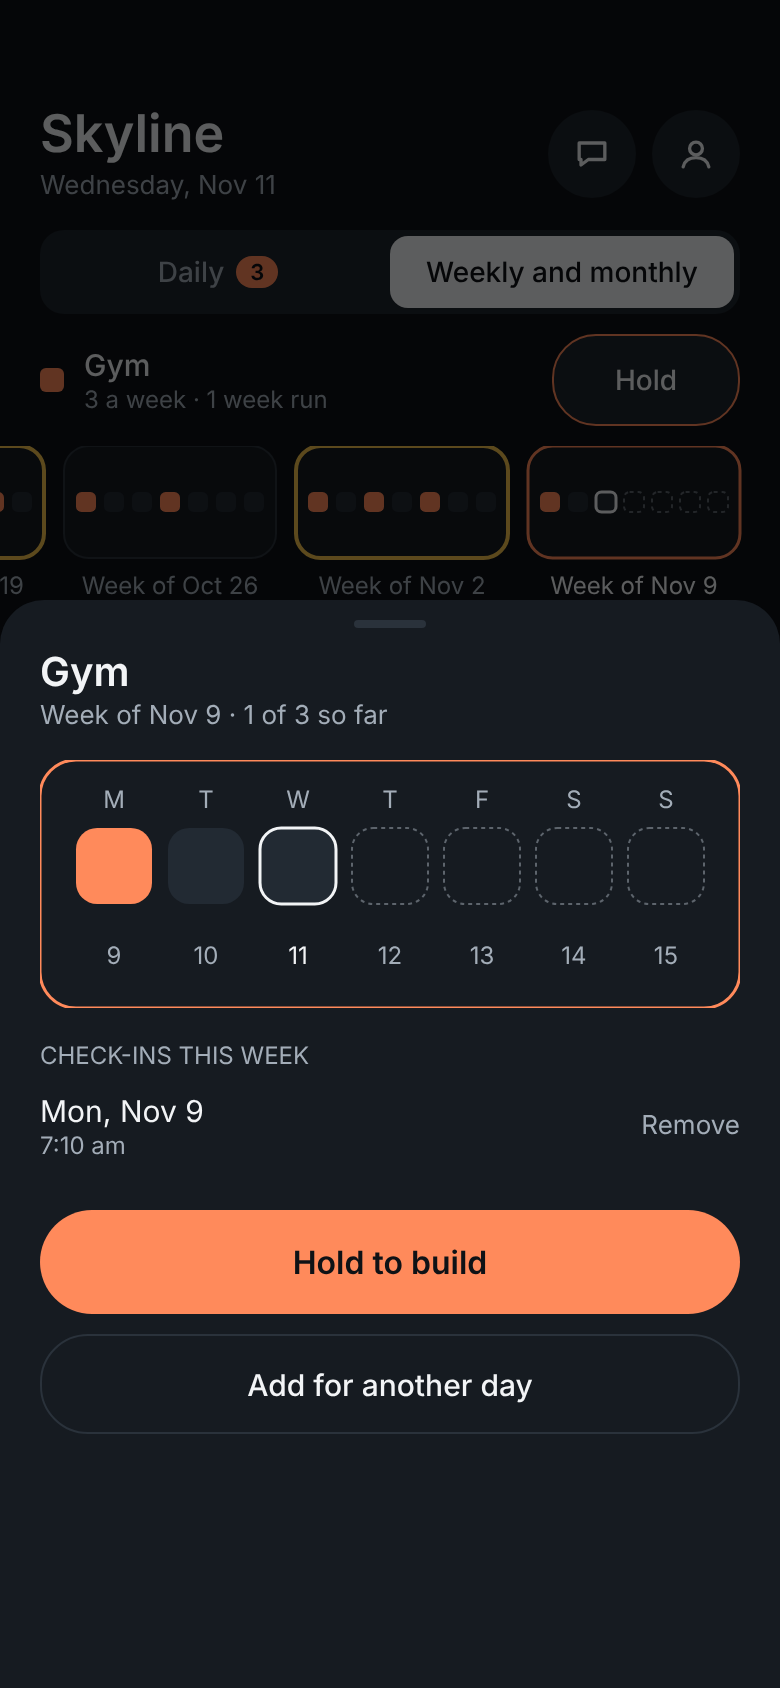
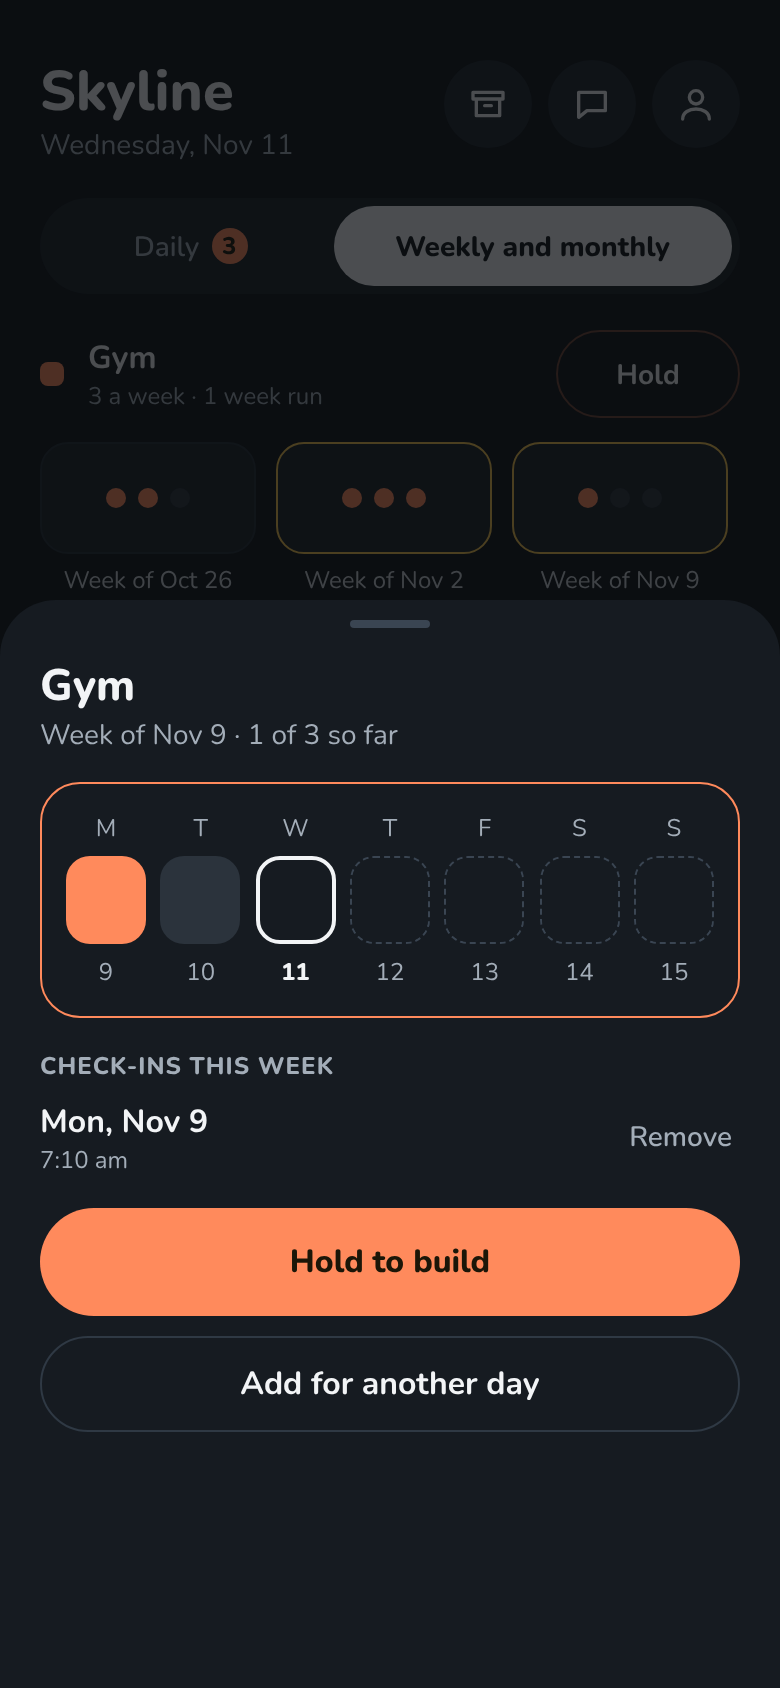
Redraw boards 01 and 16-21 in Nunito to the design system
Claude-Session: https://claude.ai/code/session_01UvWD32uMFJU1E2B9jDYiLg

diff --git a/design/skyline/source/rd.js b/design/skyline/source/rd.js
@@ -1,0 +1,67 @@
+// Redraws of owner-supplied boards 01, 16-21 in Nunito to the design system
+(function(){
+const Q=new URLSearchParams(location.search);const S=Q.get('s');
+if(!/^rd-/.test(S||''))return;
+const R=document.getElementById('root');
+const CO='#FF8A5C',AM='#F2C14E',MU='#A3ADB8';
+const svg=(p,s=20,c='#F2F4F6')=>`<svg width="${s}" height="${s}" viewBox="0 0 24 24" fill="none" stroke="${c}" stroke-width="2" stroke-linecap="round" stroke-linejoin="round">${p}</svg>`;
+const I={arch:'<path d="M3 5h18v4H3zM5 9v10h14V9M10 13h4"/>',chat:'<path d="M4 5h16v11H9l-5 4Z"/>',user:'<circle cx="12" cy="8" r="4"/><path d="M4 21c0-4 4-6 8-6s8 2 8 6"/>',chk:'<path d="M5 12l5 5L19 7"/>'};
+const circ=p=>`<div style="width:44px;height:44px;border-radius:22px;background:#1E252D;display:flex;align-items:center;justify-content:center">${svg(p)}</div>`;
+const tabIc={Skyline:'<path d="M4 20V10h5v10M9 20V4h6v16M15 20v-7h5v7"/>',Insights:'<path d="M6 20V11M12 20V5M18 20v-7"/>',Community:'<circle cx="9" cy="8" r="3"/><circle cx="17" cy="9" r="2.5"/><path d="M3 20c0-3 3-5 6-5s6 2 6 5M15 15c3 0 6 1.5 6 5"/>',Profile:'<circle cx="12" cy="8" r="4"/><path d="M4 21c0-4 4-6 8-6s8 2 8 6"/>'};
+const tabs=`<div style="position:absolute;left:0;right:0;bottom:0;height:76px;border-top:1px solid #222a33;background:#0F1216;display:flex">${['Skyline','Insights','Community','Profile'].map((t,i)=>`<div style="flex:1;display:flex;flex-direction:column;align-items:center;justify-content:center;gap:4px;font-size:12px;font-weight:${i?600:800};color:${i?MU:AM}">${svg(tabIc[t],22,i?MU:AM)}${t}</div>`).join('')}</div>`;
+const head=(sub)=>`<div style="padding:30px 20px 0;display:flex;justify-content:space-between;align-items:flex-start"><div><h1 style="font-size:28px;line-height:1.15">Skyline</h1><div style="color:${MU};font-size:14px;line-height:1.35;margin-top:2px">${sub}</div></div><div style="display:flex;gap:8px">${circ(I.arch)}${circ(I.chat)}${circ(I.user)}</div></div>`;
+const seg=(on,n1,n2)=>`<div style="margin:16px 20px 0;height:48px;border-radius:24px;background:#1A2027;padding:4px;display:flex"><div style="flex:1;border-radius:20px;display:flex;align-items:center;justify-content:center;gap:6px;font-size:14px;font-weight:${on===0?800:600};${on===0?'background:#F2F4F6;color:#0F1216':'color:'+MU}">Daily${n1?`<b style="background:${CO};color:#1b1608;border-radius:9px;min-width:18px;height:18px;font-size:12px;display:inline-flex;align-items:center;justify-content:center">${n1}</b>`:''}</div><div style="flex:1.4;border-radius:20px;display:flex;align-items:center;justify-content:center;gap:6px;font-size:14px;font-weight:${on===1?800:600};${on===1?'background:#F2F4F6;color:#0F1216':'color:'+MU}">Weekly and monthly${n2?`<b style="background:${CO};color:#1b1608;border-radius:9px;min-width:18px;height:18px;font-size:12px;display:inline-flex;align-items:center;justify-content:center">${n2}</b>`:''}</div></div>`;
+const hold=(t='Hold',kind='out')=>`<div style="height:44px;min-width:92px;padding:0 18px;border-radius:22px;display:flex;align-items:center;justify-content:center;font-size:14px;font-weight:700;${kind==='built'?'background:#1E252D;color:'+MU:'border:1.5px solid '+CO+'66'}">${kind==='built'?svg(I.chk,16,MU)+'&nbsp;':''}${t}</div>`;
+const sw=c=>`<i style="width:12px;height:12px;border-radius:4px;background:${c};display:inline-block"></i>`;
+const tw=(col,o)=>{const old=C.front;C.front=col;const r=tower(o);C.front=old;return r};
+const fl=(n,lit,sh=-1)=>Array.from({length:n},(_,i)=>i===sh?'shield':(i>=n-lit?'lit':'dark'));
+const star=(h)=>{let o='';for(let i=0;i<50;i++)o+=`<circle cx="${(i*97)%390}" cy="${(i*53)%h+4}" r="${i%3?0.9:1.4}" fill="#dfe6ff" opacity="${0.35+(i%4)*0.15}"/>`;return o};
+// ---- 01
+if(S==='rd-01'){
+  const T=[['Read',28,'#14B8A6',20,13],['Run',106,'#FF8A5C',17,9],['Write',184,'#F2C14E',9,4],['Sleep',262,'#A78BFA',20,8]];
+  R.innerHTML=`<div style="position:absolute;inset:0;overflow:hidden">${head('Wednesday, Nov 11<br>1 of 4 built today')}${seg(0,0,2)}
+  <svg width="390" height="330" style="position:absolute;top:172px;left:0"><defs><linearGradient id="g1" x1="0" y1="0" x2="0" y2="1"><stop offset="0" stop-color="#0B1030"/><stop offset="1" stop-color="#232a5a"/></linearGradient></defs><rect width="390" height="330" fill="url(#g1)"/>${star(250)}<circle cx="330" cy="26" r="16" fill="#F4EFD8"/><circle cx="337" cy="21" r="14" fill="#171E45"/><rect y="296" width="390" height="34" fill="#111522"/>
+  ${T.map(([n,x,c,f,l])=>tw(c,{x,base:290,w:44,fh:7,dx:13,dy:8,floors:fl(f,l),windows:2,today:true})+`<text x="${x+30}" y="318" text-anchor="middle" font-size="12" font-weight="700" fill="#F2F4F6" font-family="Nunito">${n}</text>`).join('')}
+  <rect x="336" y="262" width="44" height="22" rx="4" fill="none" stroke="#7A86A8" stroke-width="1.6" stroke-dasharray="5 4"/><text x="358" y="256" text-anchor="middle" font-size="22" font-weight="600" fill="#fff" font-family="Nunito">+</text><text x="358" y="318" text-anchor="middle" font-size="12" font-weight="700" fill="#F2F4F6" font-family="Nunito">New</text></svg>
+  <div style="position:absolute;top:490px;left:0;right:0;bottom:76px;background:#161B21;border-radius:28px 28px 0 0;padding:10px 20px 0"><div style="width:40px;height:4px;border-radius:2px;background:#3A4552;margin:0 auto 10px"></div>
+  ${[['Read 10 minutes','#38BDF8','27 day run','built'],['Run','#FF8A5C','8 day run'],['Write','#F2C14E','4 day run'],['Sleep by 11','#A78BFA','7 day run']].map(([n,c,r,k],i)=>`<div style="display:flex;align-items:center;gap:12px;min-height:64px;${i?'border-top:1px solid #222a33':''}">${sw(c)}<div style="flex:1"><div style="font-size:16px;font-weight:700">${n}</div><div style="font-size:12px;color:${MU}">${r}</div></div>${hold(k==='built'?'Built':'Hold',k==='built'?'built':'out')}</div>`).join('')}</div>${tabs}</div>`;
+}
+// ---- 16 base
+const gym=()=>{const wk=[['Oct 26','2 of 3',2,0],['Nov 2','3 of 3',3,1],['Nov 9','1 of 3 now',1,2]];
+ const card=(l,s,n,sel,w=108)=>`<div style="flex:0 0 ${w}px"><div style="height:56px;border-radius:14px;background:#1A2027;border:${sel?'1.5px solid '+AM:'1px solid #232b34'};display:flex;align-items:center;justify-content:center;gap:6px">${[0,1,2].map(i=>`<i style="width:10px;height:10px;border-radius:5px;background:${i<n?CO:'#2B333C'};display:block"></i>`).join('')}</div><div style="font-size:12px;color:#C9CED4;text-align:center;margin-top:6px;line-height:1.3">Week of ${l}<br><span style="color:${MU}">${s}</span></div></div>`;
+ return `<div style="padding:18px 20px 0"><div style="display:flex;align-items:center;gap:12px">${sw(CO)}<div style="flex:1"><div style="font-size:16px;font-weight:700">Gym</div><div style="font-size:12px;color:${MU}">3 a week · 1 week run</div></div>${hold('Hold')}</div>
+ <div style="display:flex;gap:10px;margin-top:12px;overflow:hidden;margin-left:-20px;padding-left:20px;margin-right:-20px">${wk.map((w,i)=>card(w[0],w[1],w[2],w[3]>0,108)).join('')}</div><div style="color:${CO};font-size:13px;font-weight:700;margin-top:10px">Add for another day ›</div></div>`};
+const run=()=>{const mo=[['September','5 of 8',5,0],['October','9 of 8',9,1],['November','3 of 8 now',3,1]];
+ const grid=(n)=>`<div style="display:grid;grid-template-columns:repeat(7,10px);gap:4px;justify-content:center">${Array.from({length:30},(_,i)=>`<i style="width:10px;height:10px;border-radius:3px;display:block;background:${i%4===0&&i<n*3?CO:'#2B333C'}"></i>`).join('')}</div>`;
+ return `<div style="padding:18px 20px 0"><div style="display:flex;align-items:center;gap:12px">${sw(CO)}<div style="flex:1"><div style="font-size:16px;font-weight:700">Run 5 km</div><div style="font-size:12px;color:${MU}">8 a month · 1 month run</div></div>${hold('Hold')}</div>
+ <div style="display:flex;gap:10px;margin-top:12px">${mo.map(m=>`<div style="flex:1"><div style="height:94px;border-radius:14px;background:#1A2027;border:${m[3]?'1.5px solid '+AM:'1px solid #232b34'};padding:10px 0">${grid(m[2])}</div><div style="font-size:12px;color:#C9CED4;text-align:center;margin-top:6px;line-height:1.3">${m[0]}<br><span style="color:${MU}">${m[1]}</span></div></div>`).join('')}</div><div style="color:${CO};font-size:13px;font-weight:700;margin-top:10px">Add for another day ›</div></div>`};
+const legend=`<div style="margin:14px 20px 0;background:#161B21;border-radius:20px;padding:14px 16px"><div style="font-size:13px;color:#C9CED4">Each small square is one day</div><div style="display:flex;gap:12px;margin-top:8px;font-size:12px;color:${MU};flex-wrap:wrap"><span>${sw('#2B333C')} None</span><span>${sw('#FFD9C9')} 1</span><span>${sw(CO)} 2</span><span>${sw('#C85A2E')} 3 or more</span></div><div style="display:flex;gap:12px;margin-top:8px;font-size:12px;color:${MU}"><span><i style="width:12px;height:12px;border-radius:4px;border:1.5px solid ${AM};display:inline-block"></i> Target met</span><span><i style="width:12px;height:12px;border-radius:4px;border:1.5px dashed #5B6472;display:inline-block"></i> To come</span></div></div>`;
+const base16=()=>`${head('Wednesday, Nov 11')}${seg(1,3,0)}${gym()}<div style="height:1px;background:#222a33;margin:14px 20px 0"></div>${run()}${legend}${tabs}`;
+if(S==='rd-16')R.innerHTML=`<div style="position:absolute;inset:0;overflow:hidden">${base16()}</div>`;
+const dim=()=>`<div style="position:absolute;inset:0;background:rgba(10,12,15,.72)"></div>`;
+const sheetBox=(top,inner)=>`<div style="position:absolute;top:${top}px;left:0;right:0;bottom:0;background:#161B21;border-radius:28px 28px 0 0;padding:10px 20px 0"><div style="width:40px;height:4px;border-radius:2px;background:#3A4552;margin:0 auto 14px"></div>${inner}</div>`;
+const pri=(t)=>`<div style="height:54px;border-radius:27px;background:${CO};color:#1b1608;font-size:16px;font-weight:800;display:flex;align-items:center;justify-content:center">${t}</div>`;
+const sec=(t)=>`<div style="height:48px;border-radius:24px;border:1.5px solid #2F3944;font-size:16px;font-weight:700;display:flex;align-items:center;justify-content:center;margin-top:10px">${t}</div>`;
+if(S==='rd-17'){const days=['M','T','W','T','F','S','S'];
+ R.innerHTML=`<div style="position:absolute;inset:0;overflow:hidden">${base16()}${dim()}${sheetBox(300,`<div style="font-size:22px;font-weight:800">Gym</div><div style="font-size:14px;color:${MU}">Week of Nov 9 · 1 of 3 so far</div>
+ <div style="border:1.5px solid ${CO};border-radius:20px;padding:14px 12px;margin-top:14px"><div style="display:flex;justify-content:space-between">${days.map((d,i)=>`<div style="width:40px;text-align:center"><div style="font-size:12px;color:${MU}">${d}</div><div style="width:40px;height:44px;border-radius:12px;margin-top:6px;background:${i===0?CO:i===1?'#2B333C':'transparent'};border:${i===2?'2px solid #F2F4F6':i>2?'1.5px dashed #3A4552':'none'}"></div><div style="font-size:12px;color:${i===2?'#F2F4F6':MU};margin-top:6px;font-weight:${i===2?800:400}">${9+i}</div></div>`).join('')}</div></div>
+ <div style="font-size:12px;font-weight:800;letter-spacing:.5px;color:${MU};margin-top:16px">CHECK-INS THIS WEEK</div><div style="display:flex;align-items:center;margin-top:6px"><div style="flex:1"><div style="font-size:16px;font-weight:700">Mon, Nov 9</div><div style="font-size:12px;color:${MU}">7:10 am</div></div><div style="font-size:14px;color:${MU};font-weight:600;padding:12px 4px">Remove</div></div>
+ <div style="margin-top:14px">${pri('Hold to build')}${sec('Add for another day')}</div>`)}</div>`;}
+if(S==='rd-18'){const rows=[['THIS WEEK'],['Wed, Nov 11','Today','o'],['Tue, Nov 10','Counts toward this week','f'],['Mon, Nov 9','Counts toward this week','b'],['LAST WEEK'],['Sun, Nov 8','Counts toward last week','o'],['Sat, Nov 7','Counts toward last week','o'],['Fri, Nov 6','Counts toward last week','b']];
+ R.innerHTML=`<div style="position:absolute;inset:0;overflow:hidden">${base16()}${dim()}${sheetBox(100,`<div style="font-size:22px;font-weight:800">Add for another day</div><div style="font-size:14px;color:${MU}">Gym · last 7 days</div><div style="margin-top:12px">${rows.map(r=>r.length===1?`<div style="font-size:12px;font-weight:800;letter-spacing:.5px;color:${MU};padding:10px 0 4px">${r[0]}</div>`:`<div style="display:flex;align-items:center;min-height:64px;border-bottom:1px solid #222a33;${r[2]==='b'?'opacity:.55':''}"><div style="flex:1"><div style="font-size:16px;font-weight:700">${r[0]}</div><div style="font-size:12px;color:${MU}">${r[1]}</div></div>${r[2]==='b'?`<span style="font-size:14px;color:${MU}">Built</span>`:`<i style="width:28px;height:28px;border-radius:14px;display:block;${r[2]==='f'?'background:'+CO:'border:1.5px solid #4a5560'}"></i>`}</div>`).join('')}</div><div style="margin-top:16px">${pri('Add check-in')}<div style="text-align:center;font-size:12px;color:${MU};margin-top:8px">One check-in per day</div></div>`)}</div>`;}
+if(S==='rd-19'){const rows=['1 to 7','8 to 14','15 to 21','22 to 28','29 to 30'];const on={0:[0,3],1:[2]};
+ R.innerHTML=`<div style="position:absolute;inset:0;overflow:hidden">${base16()}${dim()}${sheetBox(210,`<div style="font-size:22px;font-weight:800">Run 5 km</div><div style="font-size:14px;color:${MU}">November · 3 of 8, 5 to go</div>
+ <div style="border:1.5px solid ${CO};border-radius:20px;padding:12px;margin-top:14px">${rows.map((r,ri)=>`<div style="display:flex;align-items:center;gap:8px;height:44px"><div style="width:56px;flex:0 0 56px;white-space:nowrap;font-size:12px;color:${MU}">${r}</div>${Array.from({length:ri===4?2:7},(_,i)=>`<div style="width:34px;height:34px;border-radius:10px;display:flex;align-items:center;justify-content:center;font-size:14px;font-weight:800;color:#1b1608;${(on[ri]||[]).includes(i)?'background:#FFD9C9':ri===1&&i===3?'border:2px solid #F2F4F6':ri<2&&i<=(ri?2:6)?'background:#2B333C':'border:1.5px dashed #3A4552'}">${(on[ri]||[]).includes(i)?1:''}</div>`).join('')}</div>`).join('')}</div>
+ <div style="font-size:12px;color:${MU};margin-top:8px;line-height:1.4">Each row is 7 days. A darker square means more check-ins that day.</div><div style="margin-top:14px">${pri('Hold to build')}${sec('Add for another day')}</div>`)}</div>`;}
+if(S==='rd-20'){
+ R.innerHTML=`<div style="position:absolute;inset:0;overflow:hidden"><div style="text-align:center;padding:46px 20px 0"><div style="font-size:12px;font-weight:800;letter-spacing:.5px;color:${MU}">READ 10 MINUTES</div><h1 style="font-size:28px;margin-top:4px">Topped out</h1></div>
+ <svg width="390" height="380" style="position:absolute;top:130px;left:0"><rect width="390" height="380" fill="#0F1216"/><rect y="300" width="390" height="80" fill="#171C22"/>${tw('#14B8A6',{x:150,base:300,w:80,fh:11,dx:22,dy:12,floors:fl(21,0).map(()=>'dark'),windows:2,today:false})}<path d="M154,70V46l22,8-22,8" fill="#C9A845"/></svg>
+ <div style="position:absolute;top:530px;left:20px;right:20px;text-align:center"><div style="font-size:16px;line-height:1.5">The first tower is finished at 21 floors. It stays behind, and a new tower starts in front of it.</div><div style="font-size:14px;color:${MU};margin-top:12px;line-height:1.45">Your 27 day run carries over. Hold today to build the new tower's first floor.</div></div>
+ <div style="position:absolute;left:20px;right:20px;bottom:46px">${pri('Done')}<div style="text-align:center;font-size:14px;color:${MU};margin-top:14px;font-weight:600">See earlier towers</div></div></div>`;}
+if(S==='rd-21'){document.body.style.width='760px';document.body.style.height='640px';
+ R.innerHTML=`<div style="position:absolute;inset:0;background:#0F1216;border-radius:28px;overflow:hidden"><svg width="760" height="640">${tw('#FF8A5C',{x:0,base:0,w:0,fh:0,dx:0,dy:0,floors:[]})}${tw('#7A4636',{x:190,base:520,w:150,fh:34,dx:36,dy:22,floors:Array(12).fill('dark'),windows:3,today:false}).replace(/<\/g>$/,'')}
+ <path d="M276,92V52h2v40Z M278,52l28,10-28,10" fill="#8A7335"/>${tw('#FF8A5C',{x:300,base:600,w:160,fh:42,dx:36,dy:22,floors:['lit','lit','lit'],windows:3,today:false})}
+ <path d="M320,378h140M358,378v76M426,378v32" stroke="#F2C14E" stroke-width="3"/><line x1="40" y1="600" x2="720" y2="600" stroke="#2A323B" stroke-width="2"/></svg>
+ <div style="position:absolute;left:400px;top:200px"><div style="font-size:22px;font-weight:800">Topped out</div><div style="font-size:16px;color:${MU}">Fades behind the new one</div></div>
+ <div style="position:absolute;left:520px;top:518px"><div style="font-size:22px;font-weight:800">New tower</div><div style="font-size:16px;color:${MU}">Run carries on</div></div></div>`;}
+})();

diff --git a/design/skyline/source/screens.html b/design/skyline/source/screens.html
@@ -274,4 +274,4 @@ if(screen==='lotcallout'){
     <div style="margin-top:14px;height:52px;border-radius:26px;background:#FF8A5C;color:#1b1608;font-weight:800;display:flex;align-items:center;justify-content:center;font-size:16px">Hold to build</div>
   </div>${tabs}`;
 }
-</script><script src="ins.js"></script><script src="new.js"></script><script src="old.js"></script></body></html>
+</script><script src="ins.js"></script><script src="new.js"></script><script src="old.js"></script><script src="rd.js"></script></body></html>

diff --git a/design/skyline/source/shot21.js b/design/skyline/source/shot21.js
@@ -1,0 +1,2 @@
+const {chromium}=require('playwright');(async()=>{const b=await chromium.launch();const p=await b.newPage({viewport:{width:760,height:640},deviceScaleFactor:2});
+await p.goto('file://'+__dirname+'/screens.html?s=rd-21',{waitUntil:'networkidle'}).catch(()=>{});await p.waitForTimeout(800);await p.screenshot({path:__dirname+'/rd-21.png'});await b.close()})();

diff --git a/design/skyline/README.md b/design/skyline/README.md
@@ -107,4 +107,4 @@ This is the only folder of Skyline mockups. The old `concept _screens/` folder w
 
 
 ## Design system (APPROVED by the owner 2026-11-21)
-`DESIGN-SYSTEM.md` and `79-design-system.png` set the type scale, button, card and sheet sizes. All boards drawn from `source/` (every board except those listed below) were re-rendered to the standard on 2026-11-21: no half-point sizes, scale of 12/13/14/16/18/22/28/36. Not yet redrawn to the standard (owner-supplied image art with another font, text baked in): 01, 06 (superseded by 28 to 30), 16 to 21. 79 itself follows the standard. Known gap: the older button heights 54/56/36/34 and card radii 14 to 24 were left as drawn where they were already close to the standard; a full component pass is still to do.
+`DESIGN-SYSTEM.md` and `79-design-system.png` set the type scale, button, card and sheet sizes. All boards drawn from `source/` (every board except those listed below) were re-rendered to the standard on 2026-11-21: no half-point sizes, scale of 12/13/14/16/18/22/28/36. Boards 01 and 16 to 21 (previously owner-supplied images in another font) were redrawn in Nunito from `source/rd.js` on 2026-11-21; the originals are in `superseded/pre-nunito/`. Layout and content are as approved; the lot and tower art was redrawn with the shared tower helper, so small shape differences from the old images are expected. 06 stays superseded by 28 to 30. Known gap: older button heights 54/56/36/34 and card radii 14 to 24 were left as drawn where already close to the standard.
